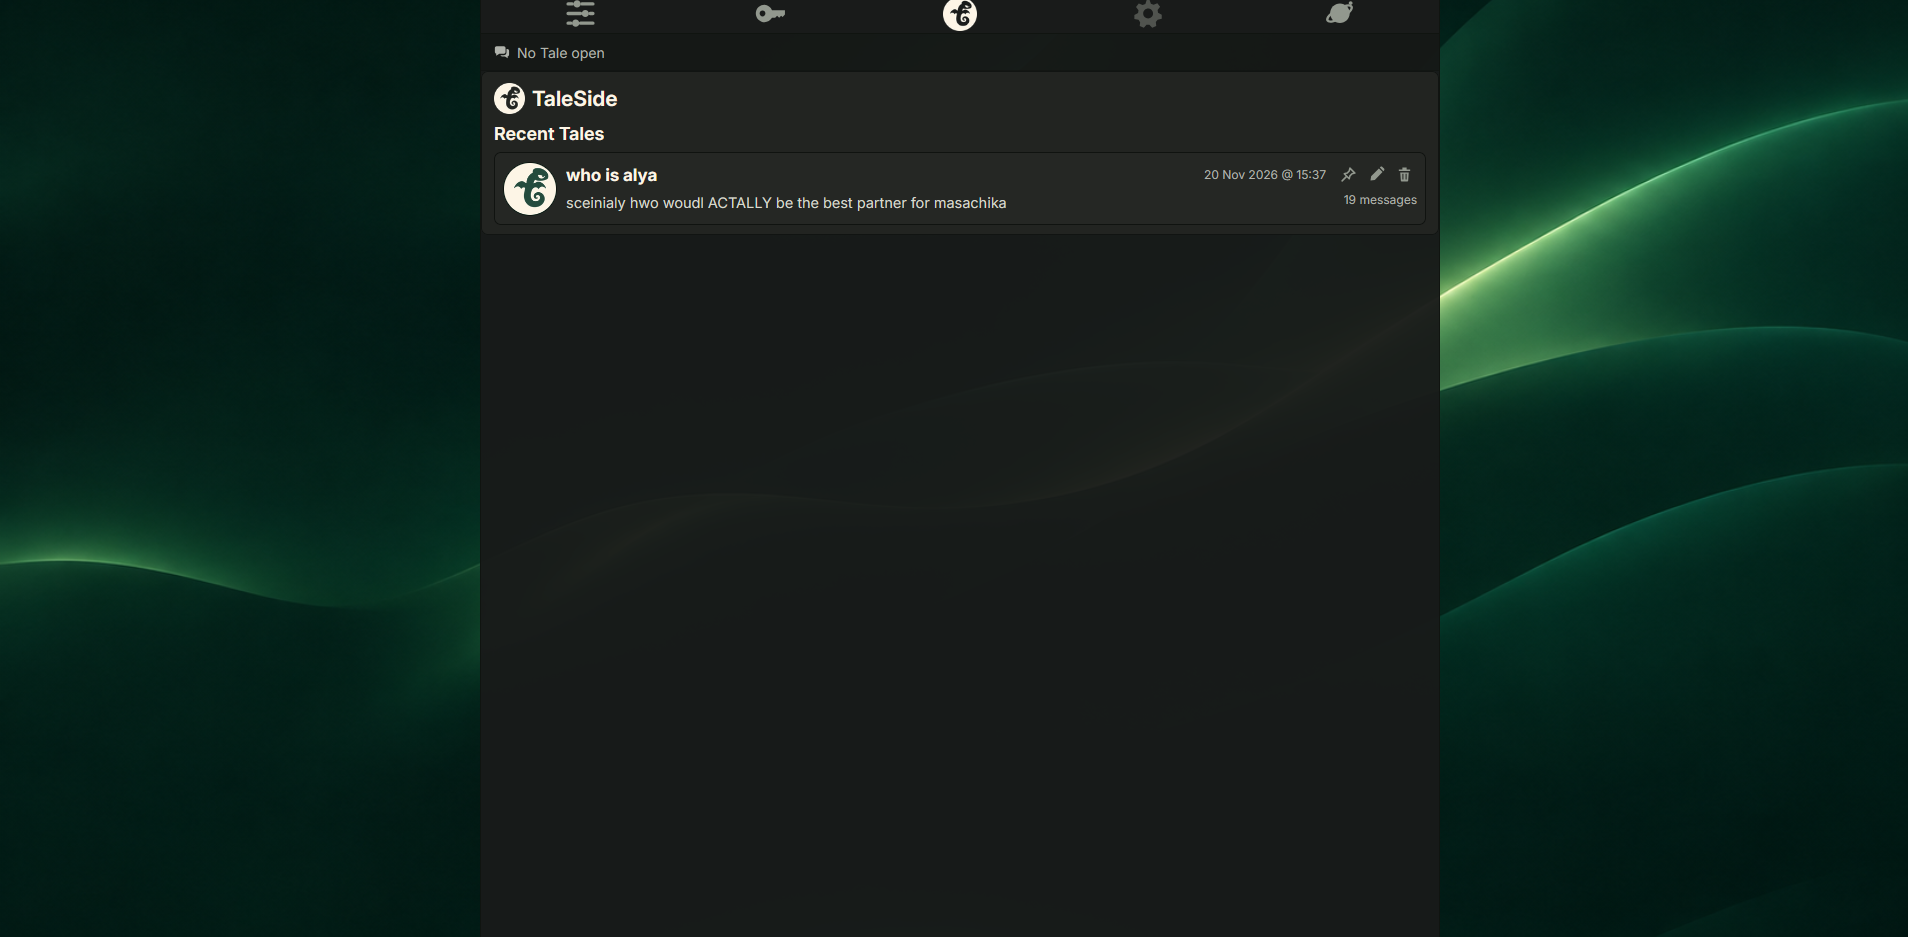
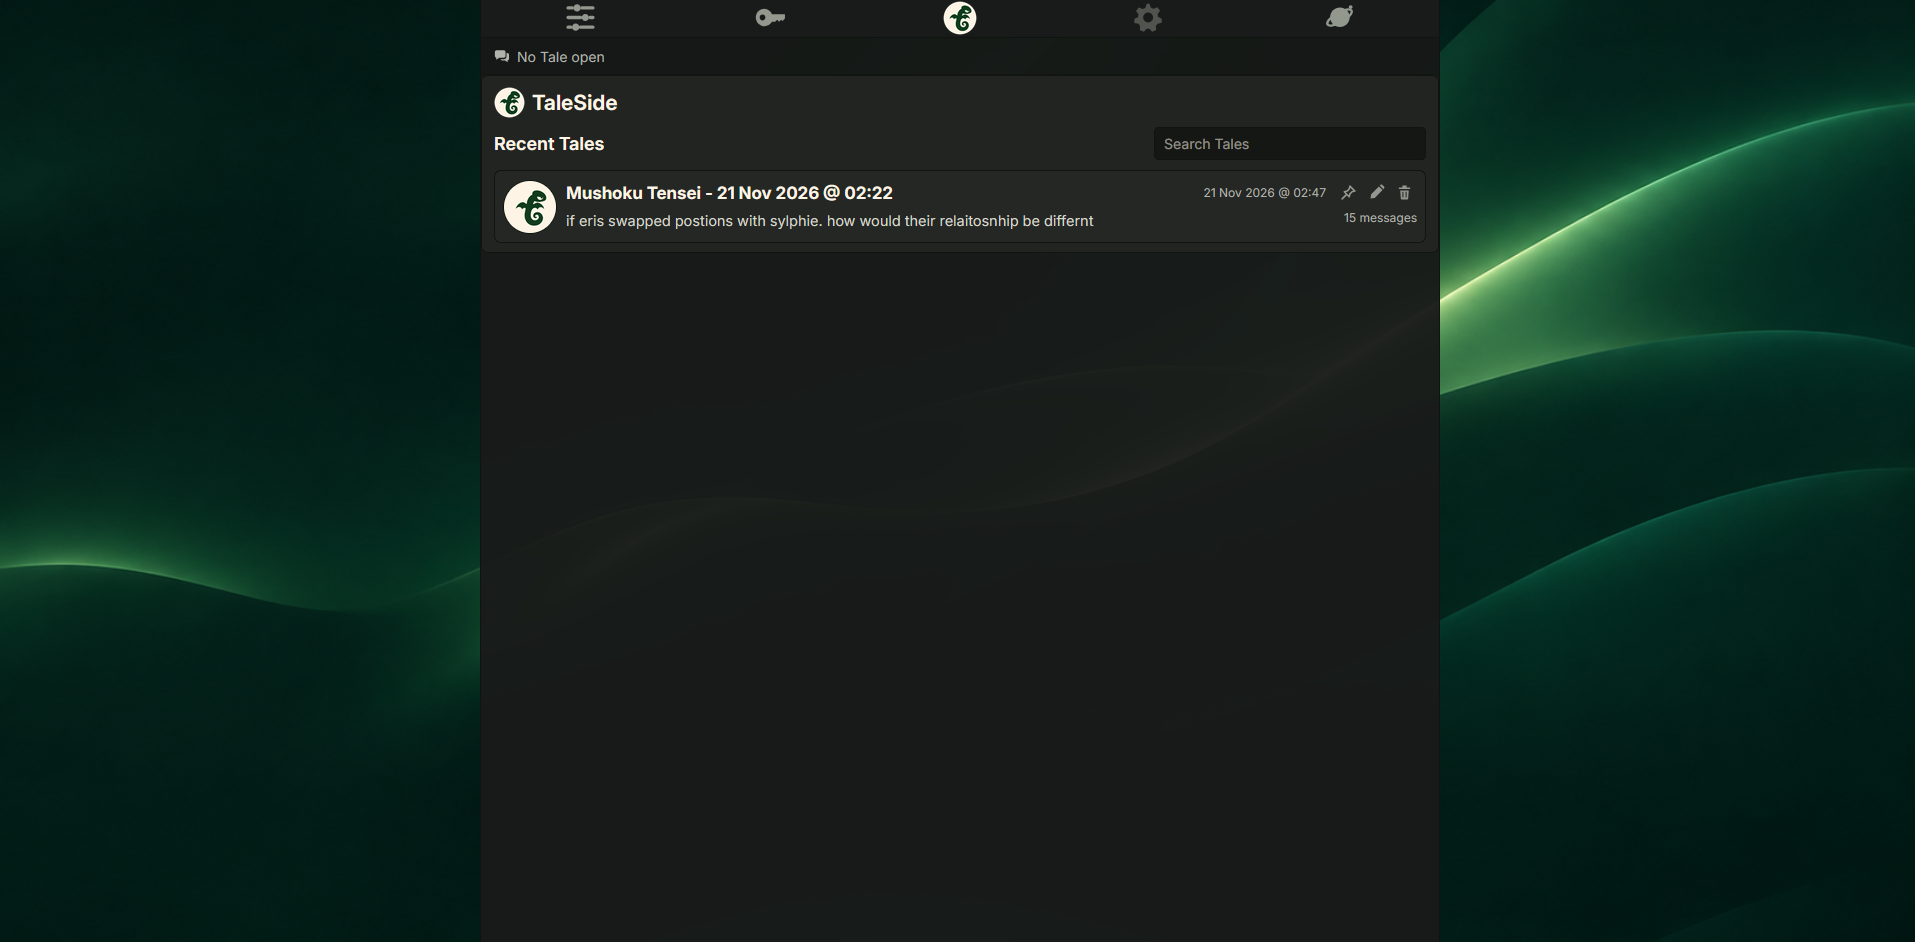
docs: refresh the Windows Quickstart and README screenshots
Clarify the Node requirement and simplify the first Tale walkthrough. Show the supplied Home screenshot on the left and the chat screenshot on the right.

diff --git a/docs/quickstart.md b/docs/quickstart.md
@@ -1,6 +1,6 @@
 # Run TaleSide on Windows
 
-1. Install [Node.js 24 LTS](https://nodejs.org/en/download/archive/v24) and [Python 3.12](https://www.python.org/downloads/release/python-31210/). Enable the Python launcher during setup.
+1. Install [Node.js 24 LTS](https://nodejs.org/en/download/archive/v24) (24.11.1 or later in the 24.x series) and [Python 3.12](https://www.python.org/downloads/release/python-31210/). Enable the Python launcher during setup.
 2. On the [TaleSide repository page](https://github.com/Vyce101/TaleSide), choose **Code → Download ZIP** and extract it.
 3. Open PowerShell in the extracted folder and run `npm ci` once to install the dependencies.
 4. Double-click **Start TaleSide.cmd**. TaleSide opens in your browser. Keep the launcher window open while you use it.
@@ -8,7 +8,7 @@
 ## Start your first Tale
 
 1. Get a Gemini API key from [Google AI Studio](https://aistudio.google.com/apikey). In TaleSide, open **API Keys**, choose **Add Key**, then name and save the key.
-2. Open **Worlds**, choose **New World** with the **+** button, and enter a name. Use the **+** beside **Books** to add a TXT book.
+2. Open **Worlds**, choose **New World** with the **+** button, and enter a name. Use the **+** beside **Books** to add one small `.txt` book.
 3. In **Indexing**, pick your key in **Embedding key**, then click the **Create World** checkmark.
 4. In **Tale Settings**, select the same key in **Chat key**.
-5. Close Tale Settings. When the message box is ready, type a message and send it.
+5. Close Tale Settings. When the first passage is indexed, type a message and send it.

diff --git a/README.md b/README.md
@@ -6,7 +6,7 @@
 
 > **Status:** Early development.
 >
-> Create Worlds from TXT books and start or resume Tales with replies grounded in those books.
+> Create Worlds from TXT, Markdown, HTML, or EPUB books. Start or resume Tales with replies grounded in those books, and search saved Tales by title or message.
 
 ## Vision
 
@@ -22,9 +22,9 @@ And none of this is staged. Harry, Umbridge, your missing friend, Ruijerd, Paul:
 
 ## Screenshots
 
-| Recent Tales | A Tale with its World open |
+| Home and Recent Tales | A Tale in progress |
 | --- | --- |
-| ![Recent Tales on the TaleSide home screen](./docs/screenshots/recent-tales.png) | ![A new Tale beside the World’s indexing and books controls](./docs/screenshots/tale-and-world.png) |
+| ![Recent Tales on the TaleSide home screen](./docs/screenshots/recent-tales.png) | ![A Tale showing a reply and its thinking summary](./docs/screenshots/tale-chat.png) |
 
 ![The former Demo Worlds shelf](./docs/screenshots/homepage.png)
 
